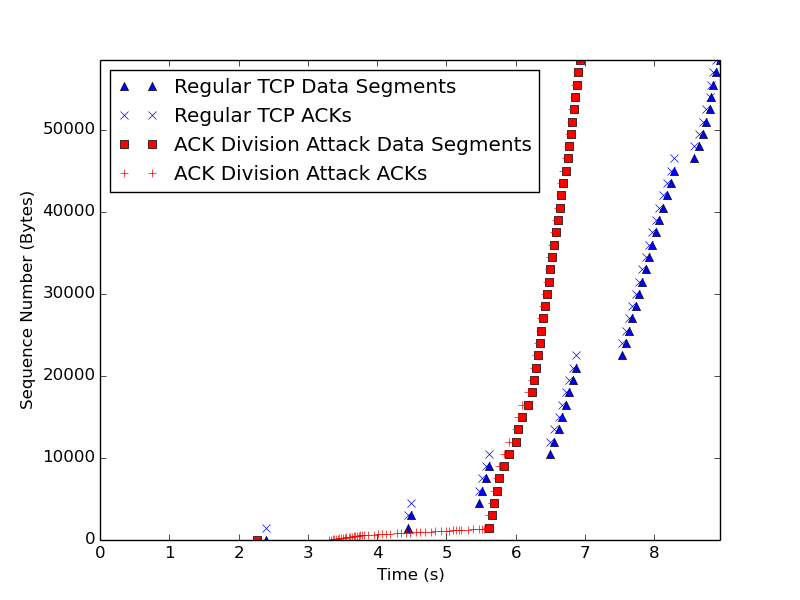
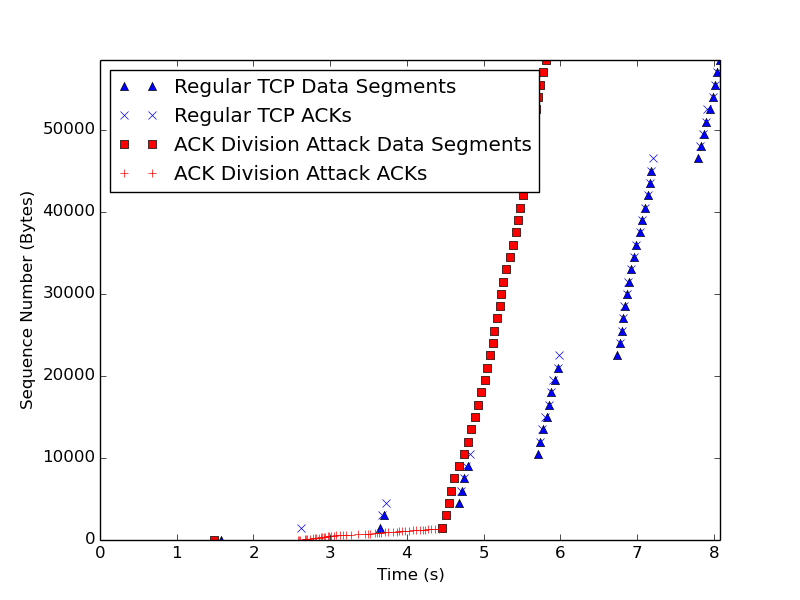
Changed div attack logic

diff --git a/run_attacks.py b/run_attacks.py
@@ -1,0 +1,87 @@
+import mn
+import argparse
+from mininet.net import Mininet
+from mininet.node import CPULimitedHost
+from mininet.link import TCLink
+from mininet.util import dumpNodeConnections
+
+OUTPUT_DIR = './plots'
+
+def build_parser():
+    parser = argparse.ArgumentParser(description="Attack plot generator")
+    parser.add_argument('--output', dest='output_dir', default=OUTPUT_DIR,
+                        help="Directory to store output plots.")
+    parser.add_argument('--delay', dest='link_delay',
+                        type=int, default=250,
+                        help="Link delay in ms (default is 250ms).")
+    parser.add_argument('--data-size', dest='data_size',
+                        type=int, default=60,
+                        help="Amount of data to be sent from sender side (in kB).")
+    parser.add_argument('--num-attack', dest='num_attack',
+                        type=int, default=50,
+                        help="Number of ACK packets to perform attacks.")
+    parser.add_argument('--opt-interval', dest='opt_interval',
+                        type=int, default=20,
+                        help="Time interval between sending optimistic ACKs\
+                              in ms (used in Optimistic ACKing attack only).")
+    return parser
+
+def main():
+    parser = build_parser()
+    args = parser.parse_args()
+
+    # Build topology
+    topo = mn.StandardTopo(args.link_delay)
+    net = Mininet(topo=topo, host=CPULimitedHost, link=TCLink)
+    net.start()
+    # Dumps network topology
+    dumpNodeConnections(net.hosts)
+    # Performs a basic all pairs ping test to check connectivity
+    net.pingAll()
+    
+    # Note: for the following TCP communication,
+    #       always start the receiver side first!
+    data_size, num_attack = args.data_size, args.num_attack
+    opt_interval, output_dir = args.opt_interval, args.output_dir
+    h1 = net.get('h1')
+    h2 = net.get('h2')
+
+    # First, record a normal TCP communication
+    print('Starting normal TCP connection...')
+    h2.sendCmd('python reno.py --role receiver --host h2')
+    h1.cmd('python reno.py --role sender --host h1 --limit %d'\
+              % data_size)
+    # Blocks execution until h2 has finished
+    h2.waitOutput()
+    print('Normal TCP connection done!')
+    
+    # ACK Division attack plot
+    print('Starting ACK Division attack...')
+    h2.sendCmd('python attacker.py --host h2 --attack div --num %d' % num_attack)
+    h1.cmd('python reno.py --role sender --host h1 --limit %d' % data_size)
+    h2.waitOutput()
+    h2.cmd('mv attack_log.txt div_attack_log.txt')
+    print('ACK Division attack done!')
+    
+    # DupACK Spoofing attack plot
+    print('Starting DupACK Spoofing attack...')
+    h2.sendCmd('python attacker.py --host h2 --attack dup --num %d' % num_attack)
+    h1.cmd('python reno.py --role sender --host h1 --limit %d' % data_size)
+    h2.waitOutput()
+    h2.cmd('mv attack_log.txt dup_attack_log.txt')
+    print('DupACK Spoofing attack done!')
+    
+    # Optimistic ACKing attack plot
+    print('Starting Optimistic ACKing attack...')
+    h2.sendCmd('python attacker.py --host h2 --attack opt --num %d --interval %d'\
+                % (num_attack, opt_interval))
+    text1 = h1.cmd('python reno.py --role sender --host h1 --limit %d' % data_size)
+    text2 = h2.waitOutput()
+    h2.cmd('mv attack_log.txt opt_attack_log.txt')
+    print('Optimistic ACKing attack done!')
+
+    # Shutdown mininet
+    net.stop()
+
+if __name__ == "__main__":
+    main()

diff --git a/plot.py b/plot.py
@@ -1,7 +1,6 @@
 import os
 import matplotlib.pyplot as plt
 import argparse
-from naive_tcp import check_bool
 from attacker import check_attack_type
 
 IMG_DIR = "./plots"
@@ -21,14 +20,16 @@ def read_lines(f, d):
 
 def main():
     parser = argparse.ArgumentParser(description="Plot script for plotting sequence numbers.")
-    parser.add_argument('--save', dest='save_imgs',
-                        nargs='?', const=False, type=check_bool,
-                        help="Set this to true to save images under %s." % IMG_DIR)
+    parser.add_argument('--save', dest='save_imgs', action='store_true',
+                        help="Set this to true to save images under specified output directory.")
     parser.add_argument('--attack', dest='attack',
                         nargs='?', const="", type=check_attack_type,
                         help="Attack name (used in plot names).")
+    parser.add_argument('--output', dest='output_dir', default=IMG_DIR,
+                        help="Directory to store plots.")
     args = parser.parse_args()
     save_imgs = args.save_imgs
+    output_dir = args.output_dir
     attack_name = args.attack
 
     if save_imgs and attack_name not in ['div', 'dup', 'opt'] :
@@ -38,7 +39,7 @@ def main():
     normal_log = {'seq':{'time':[], 'num':[]}, 'ack':{'time':[], 'num':[]}}
     attack_log = {'seq':{'time':[], 'num':[]}, 'ack':{'time':[], 'num':[]}}
     normal_f = open('log.txt', 'r')
-    attack_f = open('attack_log.txt', 'r')
+    attack_f = open('%s_attack_log.txt' % attack_name, 'r')
     
     read_lines(normal_f, normal_log)
     read_lines(attack_f, attack_log)
@@ -69,9 +70,9 @@ def main():
 
     if save_imgs:
         # Save images to figure/
-        if not os.path.exists(IMG_DIR):
-            os.makedirs(IMG_DIR)
-        plt.savefig(IMG_DIR + "/" + attack_name)
+        if not os.path.exists(output_dir):
+            os.makedirs(output_dir)
+        plt.savefig(output_dir + "/" + attack_name)
     else:
         plt.show()
     

diff --git a/mn.py b/mn.py
@@ -10,15 +10,15 @@ class CongestionTopo(Topo):
     self.addLink(h2, s1, bw=0.054, delay='50ms', max_queue_size=10)
 
 class StandardTopo(Topo):
-  def __init__(self):
+  def __init__(self, link_delay):
     Topo.__init__(self)
     h1 = self.addHost('h1', ip='10.0.0.1')
     h2 = self.addHost('h2', ip='10.0.0.2')
     s1 = self.addSwitch('s1')
-    self.addLink(h1, s1, delay='250ms')
-    self.addLink(h2, s1, delay='250ms')
+    self.addLink(h1, s1, delay='%dms' % link_delay)
+    self.addLink(h2, s1, delay='%dms' % link_delay)
 
-topos = { 'standard' : (lambda: StandardTopo()),
+topos = { 'standard' : (lambda: StandardTopo(250)),
           'congestion': (lambda: CongestionTopo()) 
         }
 

diff --git a/attacker.py b/attacker.py
@@ -11,8 +11,10 @@ class ACK_Division_Attacker(TCP_Client):
         if pkt[scp.TCP].seq == 1:
             new_seq = pkt[scp.TCP].seq
             payload_len = len(pkt[scp.TCP].payload)
+            print(payload_len)
+            print(payload_len / self.num_division)
             for i in xrange(self.num_division):
-                ack_no = new_seq + i * (payload_len / self.num_division) + 1
+                ack_no = new_seq + (i+1) * (payload_len / self.num_division)
                 self.send_ack(ack_no)
         else:
             TCP_Client.post_receive(self, pkt, status)
